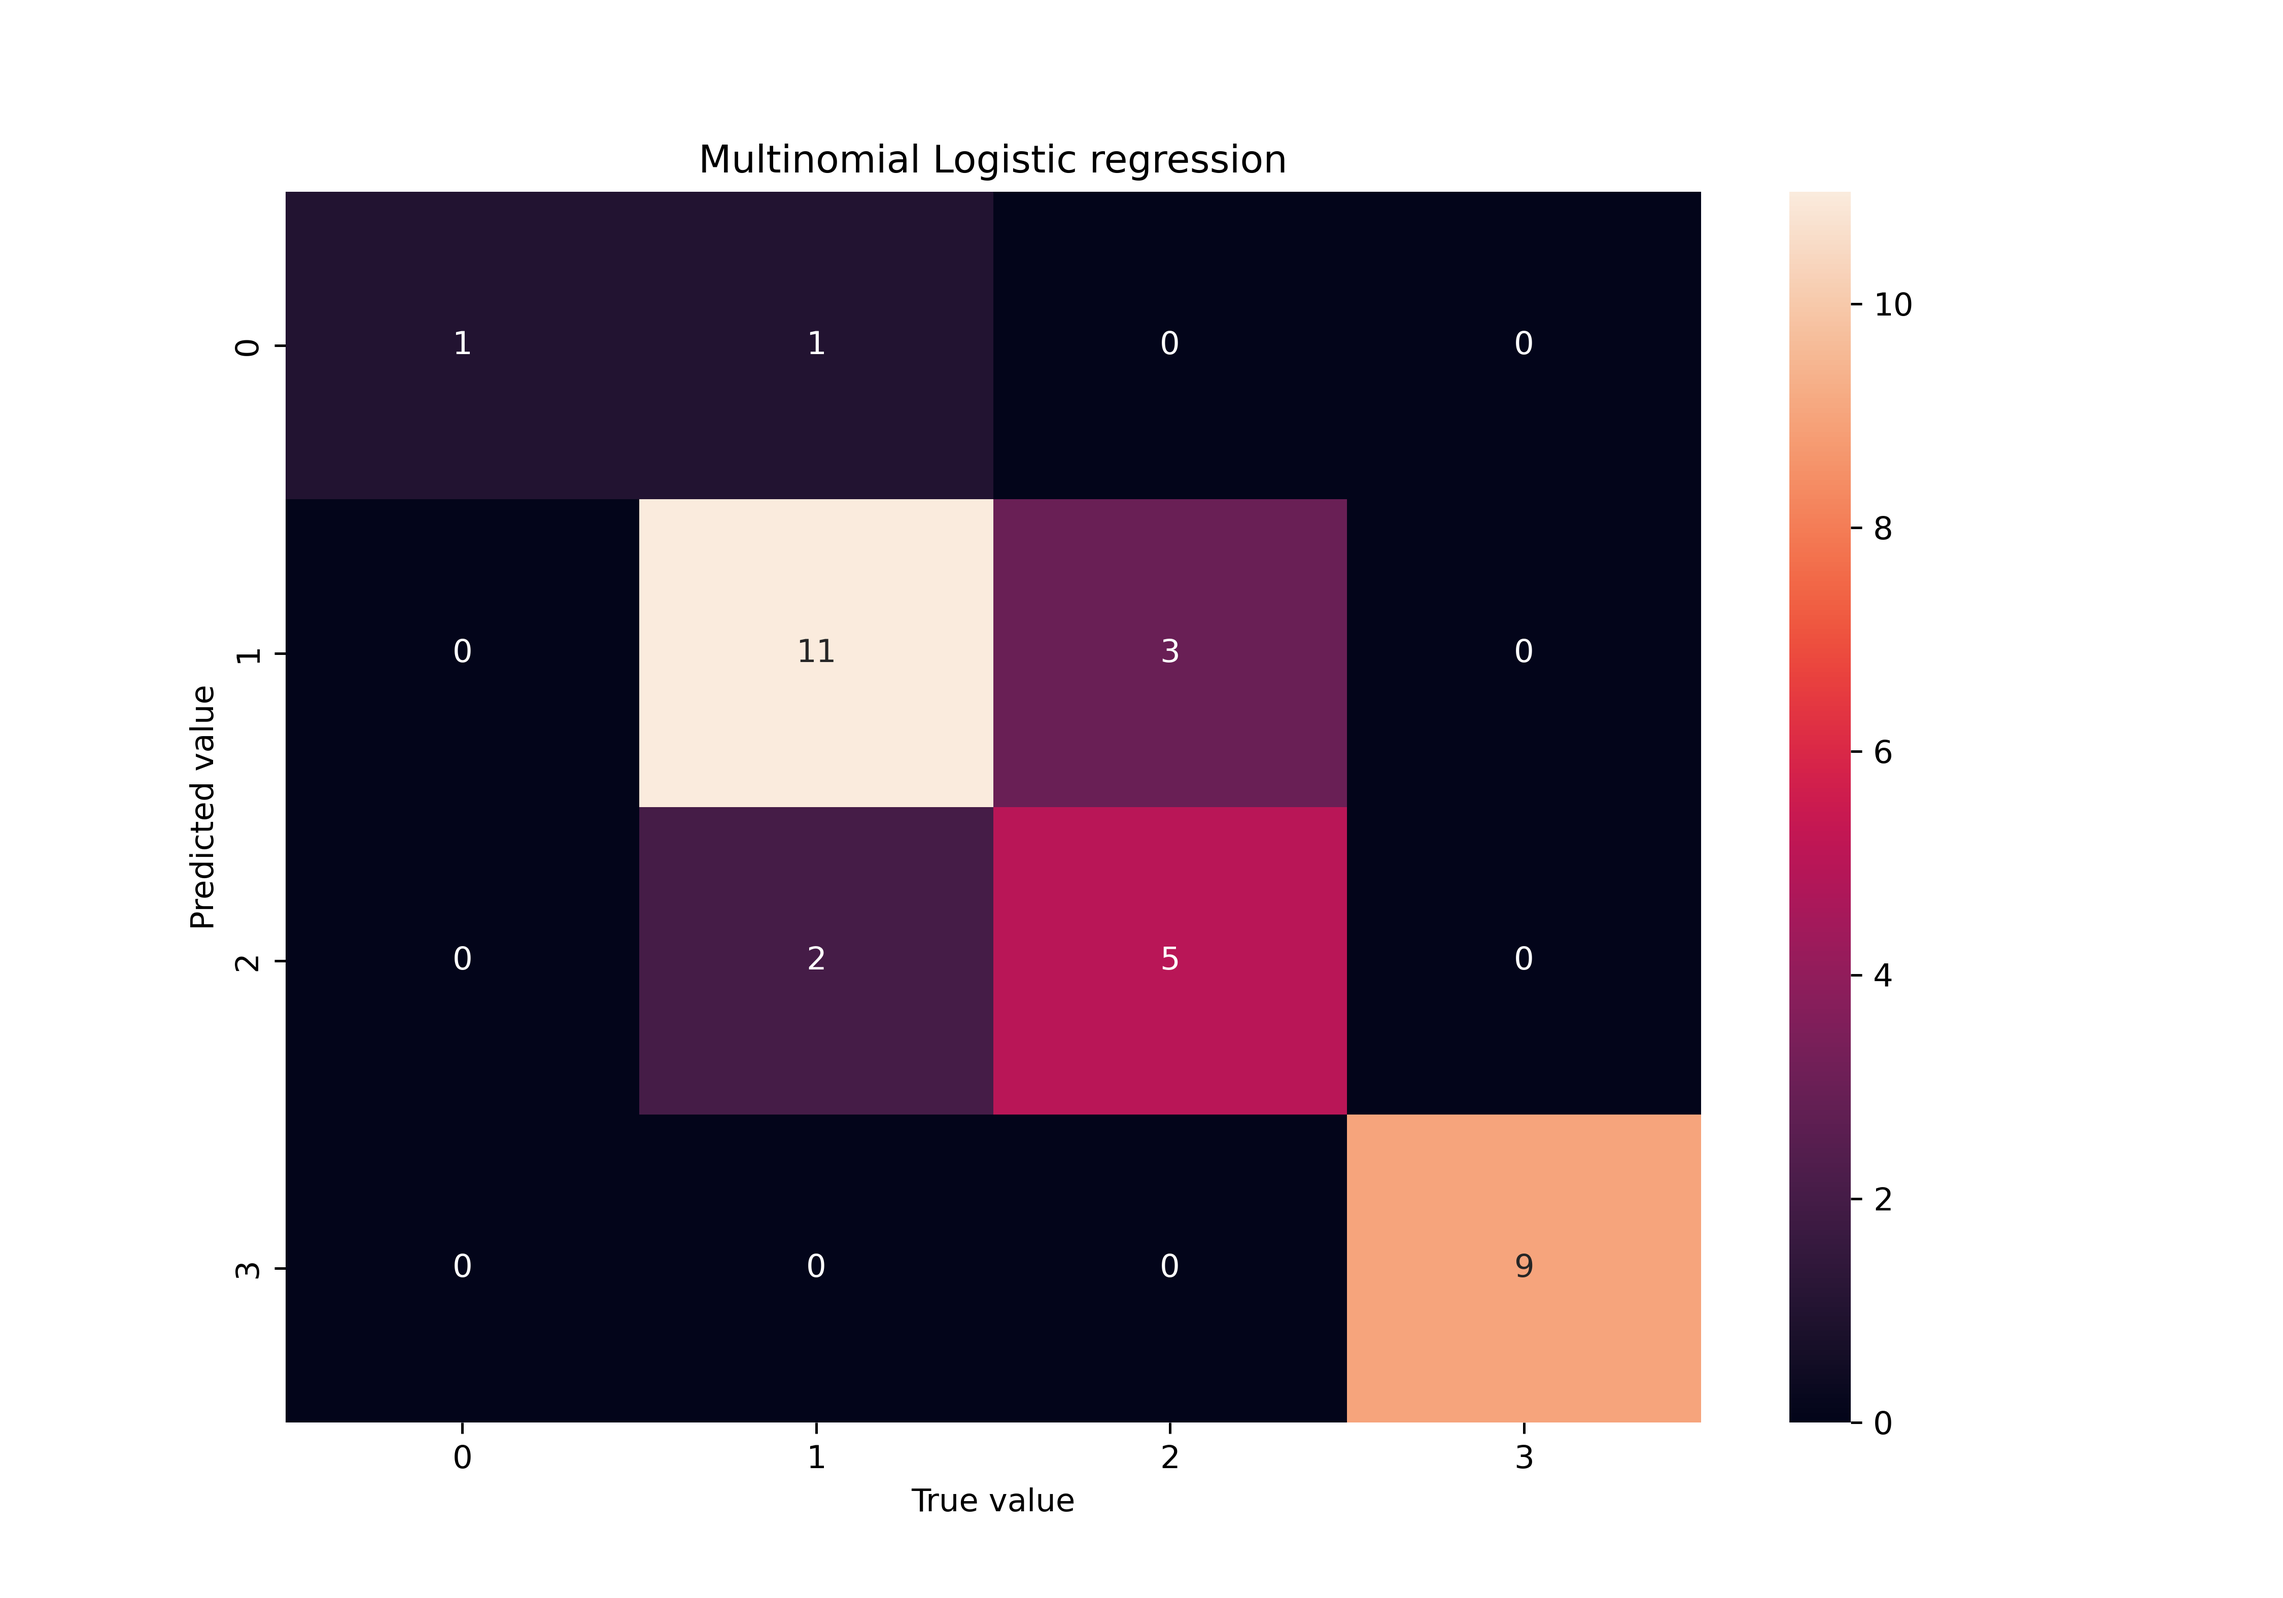
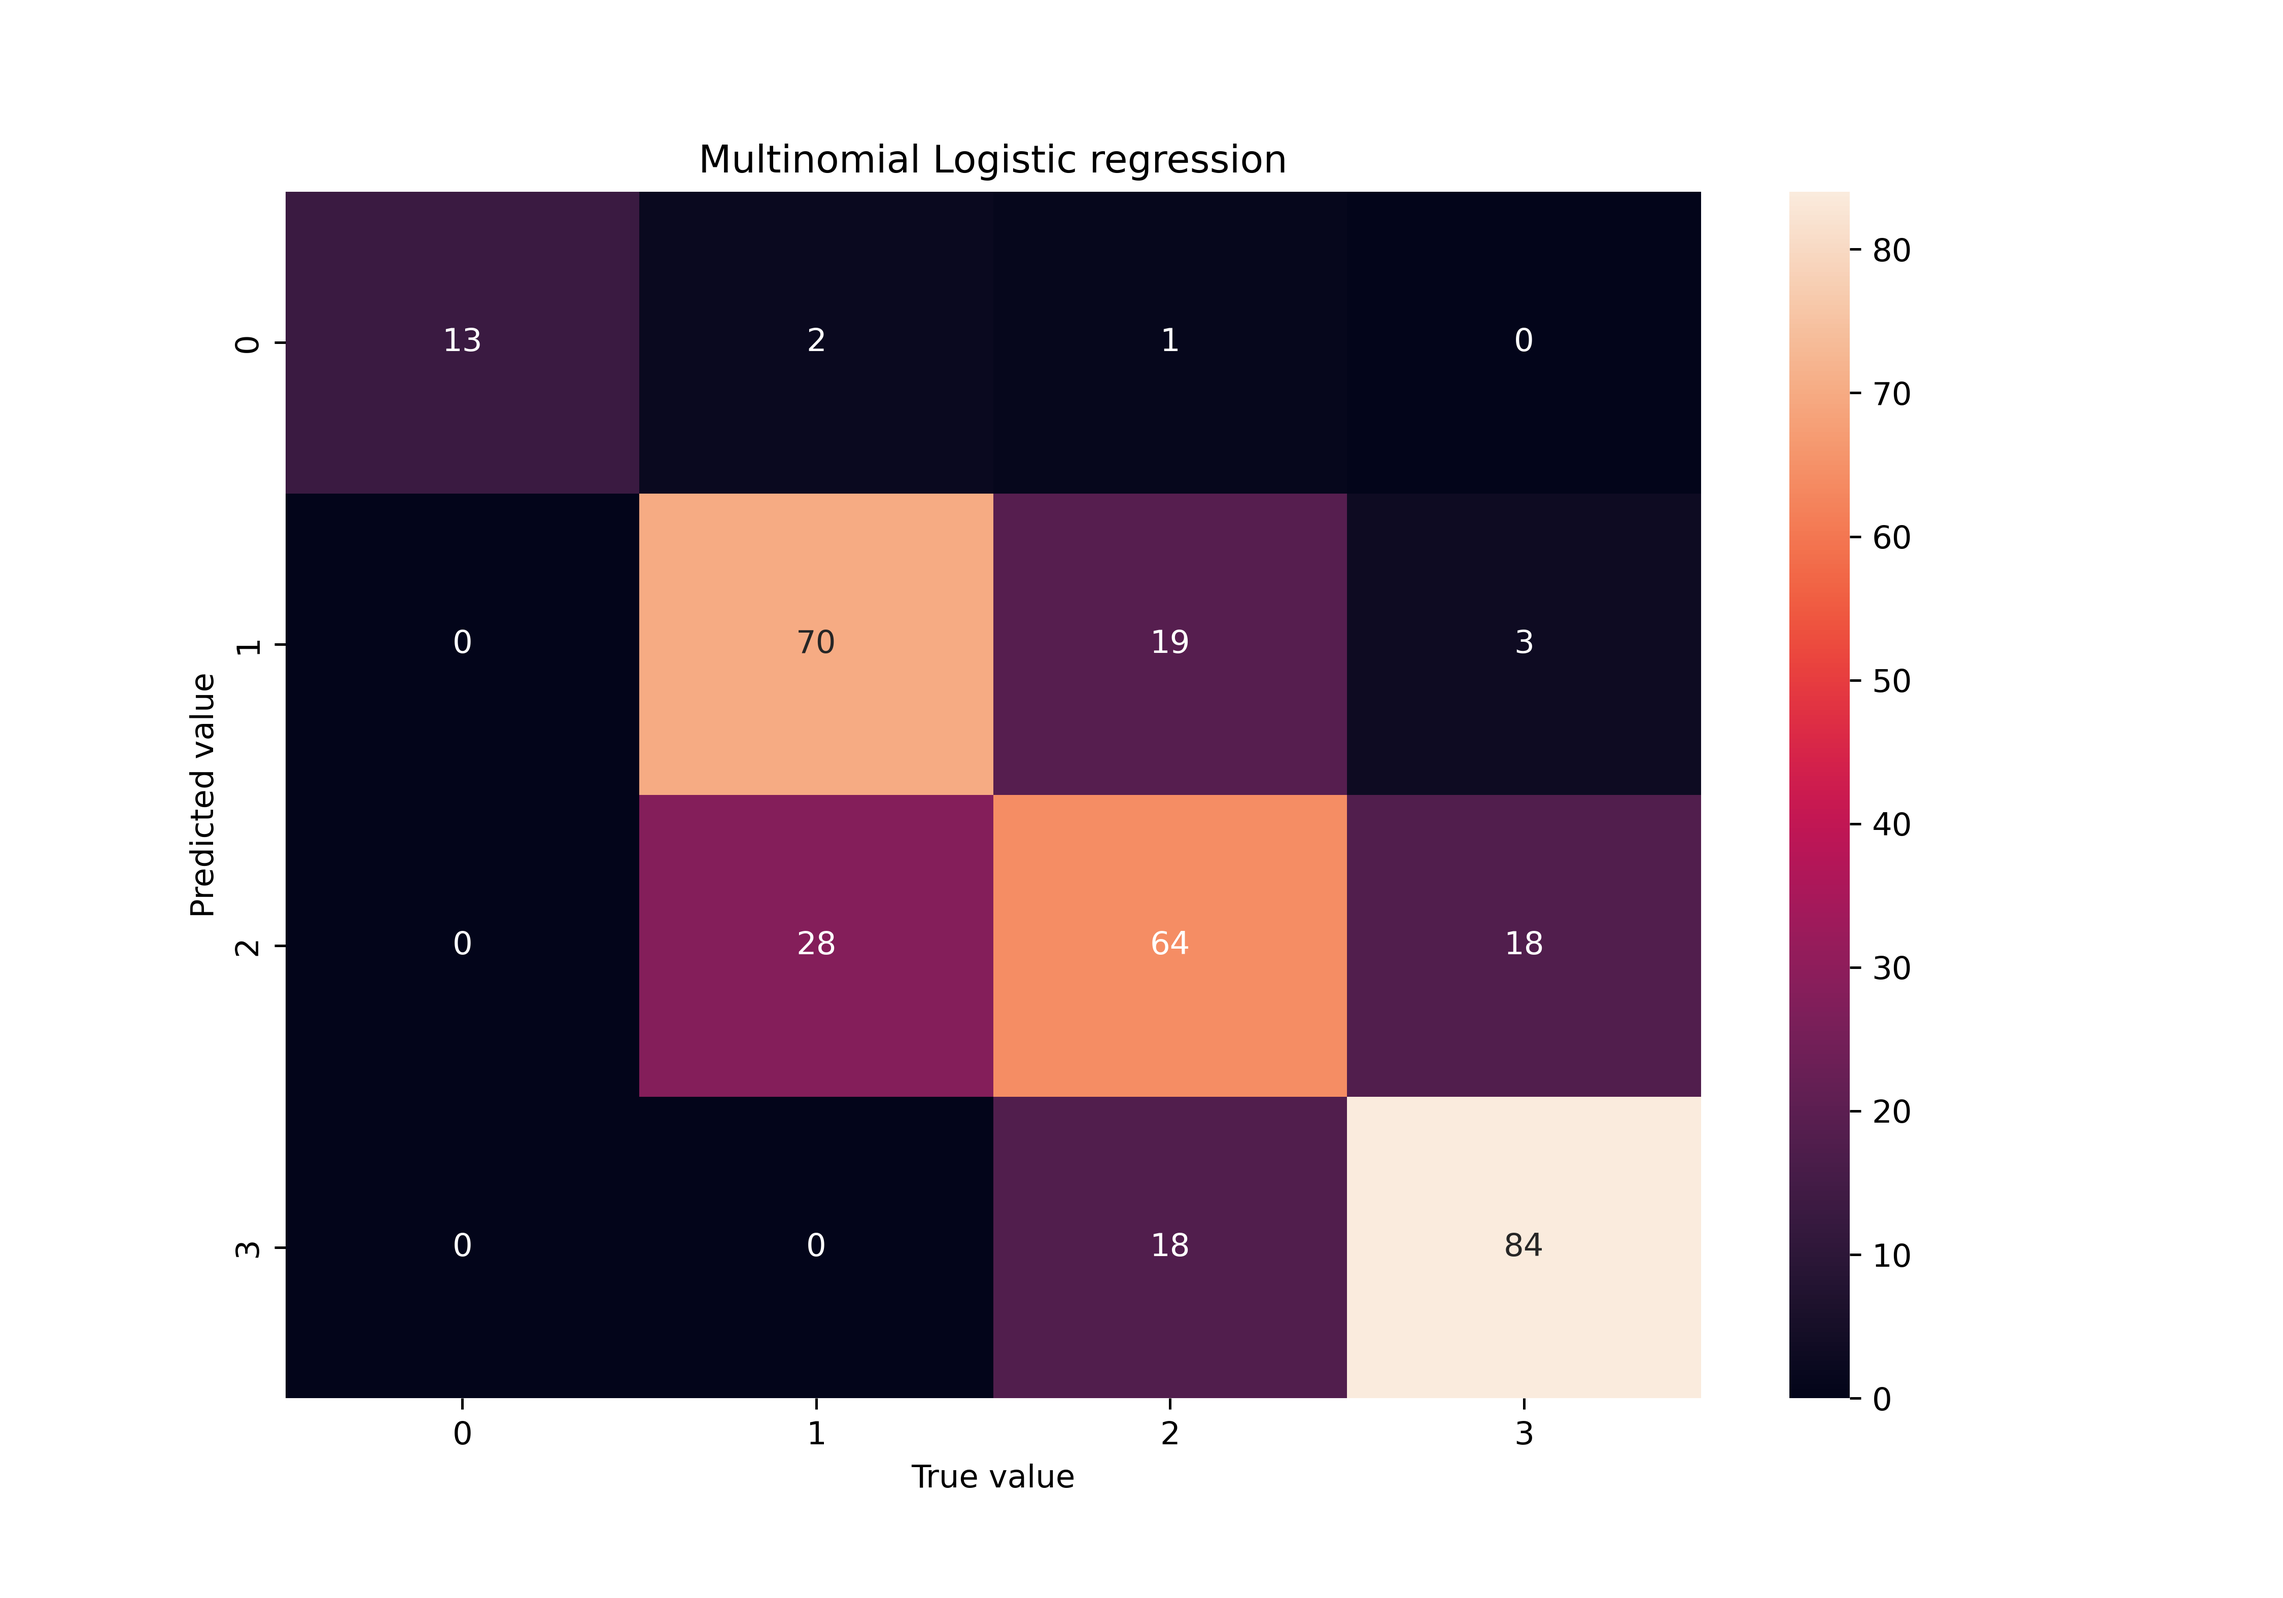
Correct confusionMatrix for simple classifier

diff --git a/MultiNomial_Christoffer.py b/MultiNomial_Christoffer.py
@@ -111,25 +111,25 @@ attributes=["xAUC","yAUC","zAUC","zMax","zMaxXValue"]
 #change between mean values or all values
 
 #mean values
-X=np.array(dfMean[attributes])
+#X=np.array(dfMean[attributes])
 
 #standardize
-X = stats.zscore(X)
+#X = stats.zscore(X)
 
 #change if wheter we want classifcation on exerpiment or size classes
 #Y=np.array(dfMean["experiment"])
 
-Y=np.array(dfMean["size"])
+#Y=np.array(dfMean["size"])
 
 
 #all values
 
-# X =np.array(dfArea[attributes])
-# X = stats.zscore(X)
+X =np.array(dfArea[attributes])
+#X = stats.zscore(X)
 
 # #change if wheter we want classifcation on exerpiment or size classes
 # Y=np.array(dfArea["experiment"])
-# #Y=np.array(dfArea["size"])
+Y=np.array(dfArea["size"])
 
 
 
@@ -148,7 +148,7 @@ X_train, X_test, Y_train, Y_test = train_test_split(X, Y, train_size=0.8, random
 # =============================================================================
 #%%
 # note: 0.01 seems to be the best C value, of the tested
-test_lst = [0.0001, 0.001, 0.01, 0.1, 1, 10, 100, 1000, 10000,100000]
+test_lst = [100]
 #lam = 0.01
 for lam in test_lst:  
 
